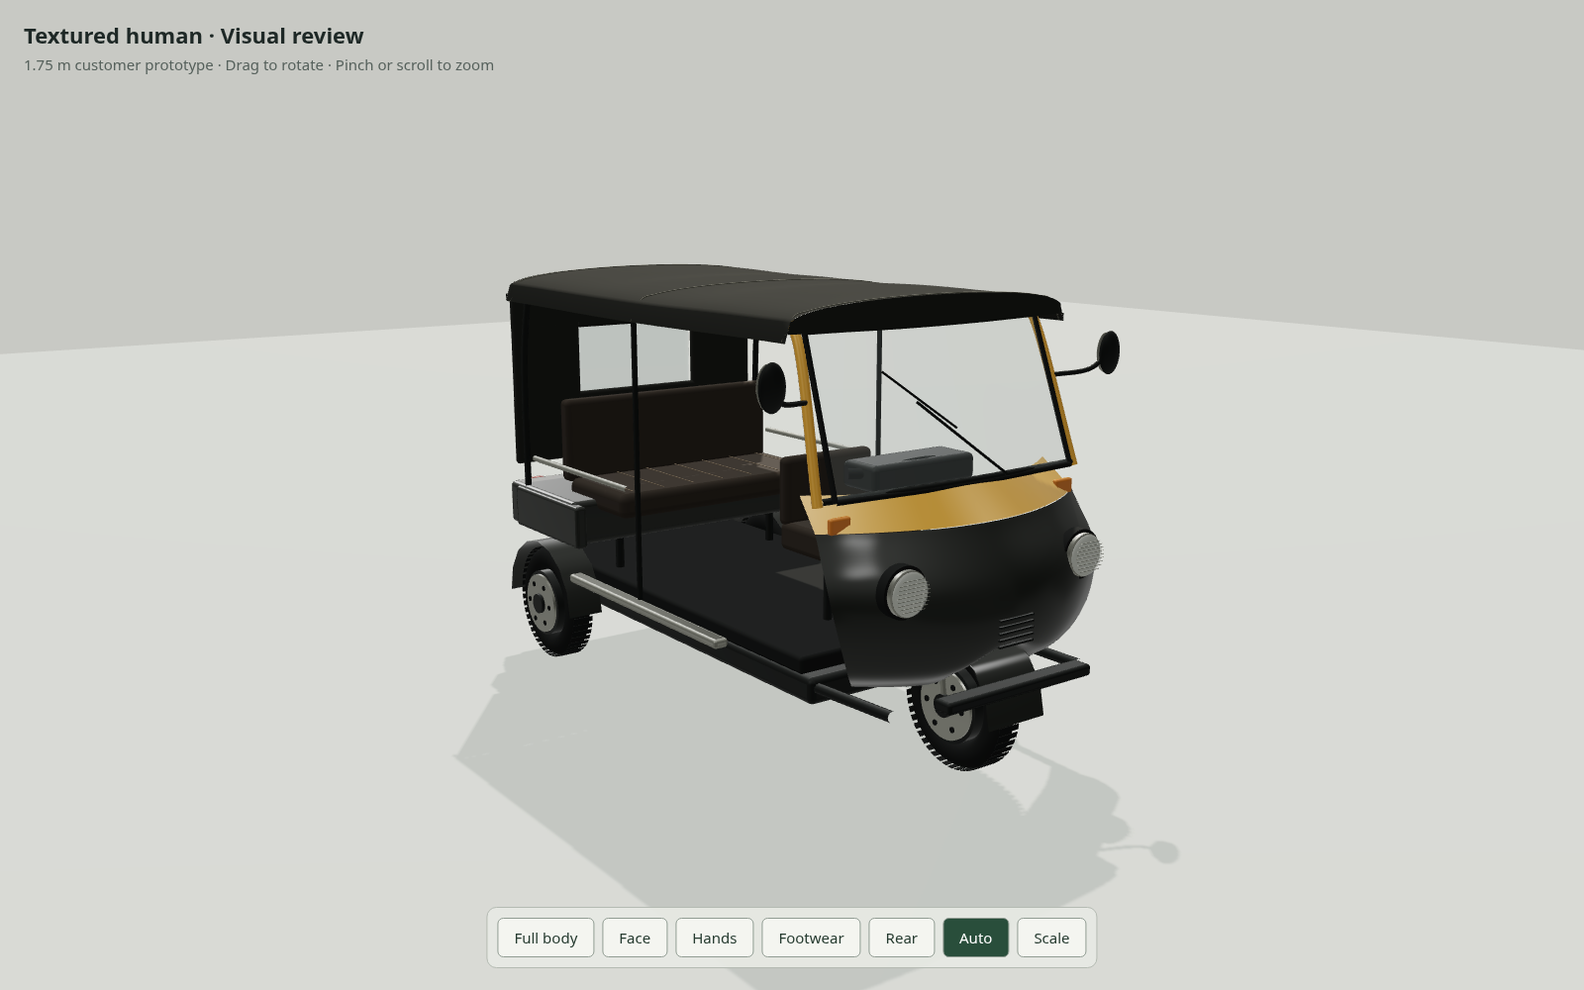
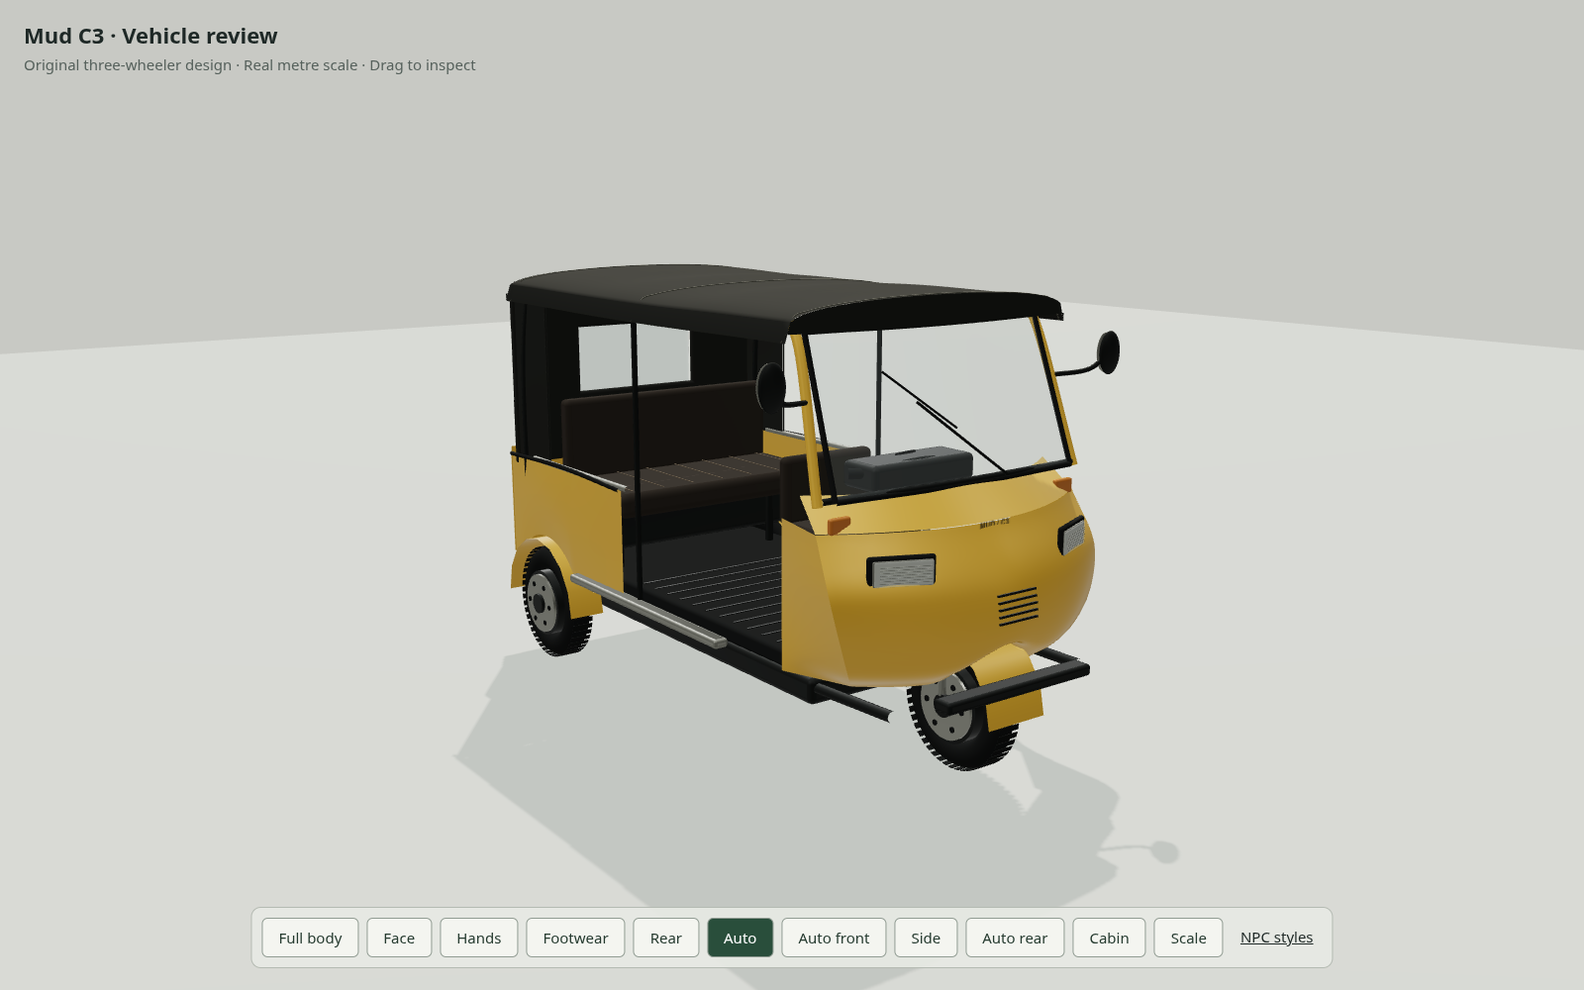
Revise original Mud C3 autorickshaw for vehicle review

diff --git a/src/prototypes/auto.js b/src/prototypes/auto.js
@@ -1,13 +1,12 @@
 import * as THREE from 'three';
 import { RoundedBoxGeometry } from 'three/addons/geometries/RoundedBoxGeometry.js';
 
-// A separate metre-scale body rebuild, not a recolour of the live world's model.
+// Original project-authored geometry and canvas badge; no manufacturer meshes, logos or photos.
 export function buildAuto(){
- const root=new THREE.Group();root.name='Formed-panel autorickshaw prototype';
- const paint=new THREE.MeshPhysicalMaterial({color:'#bc8b22',metalness:.16,roughness:.34,clearcoat:.55,clearcoatRoughness:.23});
- const metal=new THREE.MeshPhysicalMaterial({color:'#242722',metalness:.12,roughness:.44,clearcoat:.3});
+ const root=new THREE.Group();root.name='Mud C3 · original utility autorickshaw';
+ const paint=new THREE.MeshPhysicalMaterial({color:'#d5a62c',metalness:.22,roughness:.42,clearcoat:.32,clearcoatRoughness:.3});
  const frame=new THREE.MeshStandardMaterial({color:'#272a28',metalness:.5,roughness:.44}),rubber=new THREE.MeshStandardMaterial({color:'#191b1a',roughness:.97}),chrome=new THREE.MeshStandardMaterial({color:'#9b9c93',metalness:.9,roughness:.3}),cloth=new THREE.MeshStandardMaterial({color:'#242521',roughness:.98,side:THREE.DoubleSide}),seat=new THREE.MeshStandardMaterial({color:'#322c25',roughness:.87});
- cloth.userData.surface='cloth';
+ cloth.userData.surface='cloth';seat.userData.surface='cloth';paint.userData.surface='paint';
  const add=(geometry,material,p=[0,0,0],rotation=[0,0,0])=>{const o=new THREE.Mesh(geometry,material);o.position.set(...p);o.rotation.set(...rotation);o.castShadow=o.receiveShadow=true;root.add(o);return o;};
  const box=(w,h,d,r,m,p)=>add(new RoundedBoxGeometry(w,h,d,5,r),m,p);
  const tube=(points,r,m)=>add(new THREE.TubeGeometry(new THREE.CatmullRomCurve3(points.map(p=>new THREE.Vector3(...p))),Math.max(12,points.length*8),r,12,false),m);
@@ -16,16 +15,27 @@ export function buildAuto(){
  box(1.0,.10,2.02,.025,frame,[0,.32,.22]);
  for(const side of[-1,1])tube([[side*.47,.33,-.70],[side*.45,.34,-1.17]],.020,frame);
  box(1.0,.065,1.94,.015,rubber,[0,.402,.24]);
- box(1.28,.19,.60,.025,metal,[0,.66,.985]);
+ box(1.06,.19,.51,.025,frame,[0,.60,.985]);
  // Curved pressed nose: shoulders sweep back around the headlight recesses.
  const profiles=[[.39,.46,-1.17],[.49,.56,-1.27],[.73,.63,-1.27],[.945,.61,-1.16]];
  const profile=new THREE.CatmullRomCurve3(profiles.map(([y,w,z])=>new THREE.Vector3(w,y,z)));
- surface(48,64,(u,v)=>{const p=profile.getPoint(v),t=u*2-1;return[t*p.x,p.y+.18*Math.exp(-t*t*14)*(1-v)**3,p.z+.205*t*t];},metal).material.side=THREE.DoubleSide;
+ function nose(y,x=0){let low=0,high=1;for(let i=0;i<20;i++){const v=(low+high)/2;if(profile.getPoint(v).y<y)low=v;else high=v;}const v=(low+high)/2,p=profile.getPoint(v),t=x/p.x;return p.z+.205*t*t-.008*Math.exp(-t*t*35)*Math.sin(v*Math.PI);}
+ surface(48,64,(u,v)=>{const p=profile.getPoint(v),t=u*2-1;return[t*p.x,p.y+.18*Math.exp(-t*t*14)*(1-v)**3,p.z+.205*t*t-.008*Math.exp(-t*t*35)*Math.sin(v*Math.PI)];},paint).material.side=THREE.DoubleSide;
  surface(10,64,(u,v)=>{const t=u*2-1;return[t*(.61-v*.03),.947+v*.105,-1.158+v*.126+.205*t*t];},paint).material.side=THREE.DoubleSide;
  tube([[-.59,1.053,-.96],[0,1.066,-1.03],[.59,1.053,-.96]],.012,frame);
  for(const side of[-1,1]){
   // Rounded side stampings and thin door sills surround a genuinely open entrance.
-  box(.052,.18,.57,.015,metal,[side*.625,.655,.92]);
+  // Formed rear quarter shell with an actual wheel opening, not a covered wheel.
+  const quarter=surface(24,40,(u,v)=>{
+   const z=.30+u*.99,dz=z-.97,arch=Math.abs(dz)<.30?.255+Math.sqrt(.30**2-dz**2):.425;
+   const low=Math.max(.425,arch),high=.875+.018*Math.sin(u*Math.PI);
+   return[side*(.625+.014*Math.sin(v*Math.PI)*Math.sin(u*Math.PI)),low+(high-low)*v,z];
+  },paint);quarter.material.side=THREE.DoubleSide;quarter.name='Pressed rear quarter '+side;
+  surface(40,20,(u,v)=>{const p=profile.getPoint(v);return[side*(p.x*(1-u)+.555*u),p.y,(p.z+.205)*(1-u)-.69*u+.012*Math.sin(u*Math.PI)*Math.sin(v*Math.PI)];},paint).material.side=THREE.DoubleSide;
+  tube([[side*.634,.878,.30],[side*.636,.895,.79],[side*.627,.878,1.28]],.009,rubber);
+  // Rear canvas wraps the passenger cabin, while the entry stays open.
+  surface(16,18,(u,v)=>[side*(.617+.005*Math.sin(u*Math.PI)*Math.sin(v*Math.PI)),.89+v*.68,.91+u*.31],cloth);
+  tube([[side*.623,.90,.91],[side*.623,1.25,.91],[side*.623,1.58,.91]],.003,cloth);
   box(.06,.035,1.12,.012,chrome,[side*.636,.434,.13]);
   tube([[side*.606,1.037,-.96],[side*.558,1.555,-.79],[side*.555,1.63,-.74]],.018,paint);
   tube([[side*.614,.66,1.15],[side*.618,1.34,1.13],[side*.610,1.61,1.09]],.014,frame);
@@ -36,12 +46,13 @@ export function buildAuto(){
   const mirrorGlass=add(new THREE.SphereGeometry(1,40,28),chrome,[side*.785,1.448,-.934]);mirrorGlass.scale.set(.046,.075,.006);
   box(.087,.056,.025,.009,new THREE.MeshStandardMaterial({color:'#a86718',roughness:.25}),[side*.53,.97,-.979]);
   box(.087,.128,.027,.012,new THREE.MeshPhysicalMaterial({color:'#8d2820',roughness:.28,clearcoat:1}),[side*.51,.69,1.292]);
-  // Real reflector, recessed lamp glass and fine fluting replace solid white discs.
-  const x=side*.418,z=-1.247+.205*(x/.63)**2;
-  cylinder(.092,.042,rubber,[x,.769,z-.012],[Math.PI/2,0,0]);
-  cylinder(.080,.024,chrome,[x,.769,z-.038],[Math.PI/2,0,0]);
-  const lens=add(new THREE.SphereGeometry(1,48,32),new THREE.MeshPhysicalMaterial({color:'#ced4cc',roughness:.12,metalness:.08,clearcoat:1,transparent:true,opacity:.47}),[x,.769,z-.057]);lens.scale.set(.076,.076,.017);
-  for(let y=-.052;y<.056;y+=.013){const half=Math.sqrt(.072**2-y*y);tube([[x-half,.769+y,z-.074],[x+half,.769+y,z-.074]],.0011,chrome);}
+  // Original twin horizontal lamp assemblies, fitted to the compound nose curve.
+  const x=side*.403,z=nose(.826,x),yaw=-side*.41;
+  const housing=box(.238,.119,.022,.032,rubber,[x,.826,z-.004]);housing.rotation.y=yaw;housing.name='C3 headlight housing '+side;
+  const reflector=box(.211,.091,.011,.025,chrome,[x,.826,z-.014]);reflector.rotation.y=yaw;
+  const lens=box(.205,.085,.010,.024,new THREE.MeshPhysicalMaterial({color:'#d7dfd5',roughness:.15,metalness:.05,clearcoat:.7,transparent:true,opacity:.43,depthWrite:false}),[x,.826,z-.021]);lens.rotation.y=yaw;
+  for(let y=-.028;y<=.029;y+=.009)tube([[x-.083,.826+y,z-.030-side*.035],[x+.083,.826+y,z-.030+side*.035]],.0008,chrome);
+
  }
  // Single curved windshield, thin rubber seal, and a blade that follows its rake.
  const glazing=new THREE.MeshPhysicalMaterial({color:'#aebcbb',roughness:.10,metalness:0,clearcoat:1,transparent:true,opacity:.18,depthWrite:false,side:THREE.DoubleSide});
@@ -56,6 +67,9 @@ export function buildAuto(){
  surface(48,64,roofPoint,cloth);
  for(const end of[0,1])surface(8,64,(u,v)=>{const roof=roofPoint(u,end),t=u*2-1;return[roof[0],(1-v)*(1.585+.012*t*t)+v*roof[1],roof[2]+(end? .001:-.001)];},cloth);
  for(const v of[.01,.48,.98])tube(Array.from({length:25},(_,i)=>{const p=roofPoint(i/24,v);p[1]+=.001;return p;}),.002,new THREE.MeshStandardMaterial({color:'#515148',roughness:1}));
+ // Curved rear engine cover closes the body below the canvas cabin.
+ surface(18,40,(u,v)=>{const t=u*2-1;return[t*.628,.425+v*.485,1.278+.013*(1-t*t)*Math.sin(v*Math.PI)];},paint).material.side=THREE.DoubleSide;
+ for(const side of[-1,1])tube([[side*.45,.56,1.294],[side*.45,.72,1.294]],.012,rubber);
  // Rear curtains are built around their opening, not layered over opaque panels.
  box(1.26,.30,.033,.016,cloth,[0,.988,1.225]);box(1.26,.18,.033,.016,cloth,[0,1.52,1.225]);
  for(const side of[-1,1])box(.325,.38,.033,.012,cloth,[side*.465,1.28,1.225]);
@@ -77,9 +91,22 @@ export function buildAuto(){
 for(const side of[-1,1])tube([[side*.08,.26,-1.025],[side*.08,.58,-.98]],.012,chrome);
  wheel(0,-1.025);wheel(-.587,.97);wheel(.587,.97);
  const arch=(x,z,width,r,material)=>surface(48,8,(u,v)=>{const a=u*Math.PI;return[x+(v-.5)*width,.255+r*Math.sin(a),z+r*Math.cos(a)];},material);
- arch(0,-1.025,.265,.279,metal).material.side=THREE.DoubleSide;
- for(const side of[-1,1])arch(side*.592,.97,.155,.281,metal);
+ arch(0,-1.025,.265,.279,paint).material.side=THREE.DoubleSide;
+ for(const side of[-1,1])arch(side*.592,.97,.155,.292,paint);
  box(.68,.043,.08,.013,frame,[0,.386,-1.29]);box(1.16,.072,.07,.018,frame,[0,.385,1.27]);
- for(let y=.54;y<.65;y+=.023)box(.16,.007,.012,.001,frame,[0,y,-1.287]);
- root.userData={assetType:'autorickshaw-prototype',reviewOnly:true,dimensions:{length:2.635,width:1.30,height:1.70},wheelCount:3};return root;
+ // Open grille blades and a small original game badge, with no manufacturer marks.
+ for(let y=.625;y<.73;y+=.024)box(.18,.008,.009,.002,frame,[0,y,nose(y)-.005]);
+ for(let z=-.63;z<.43;z+=.095)box(.93,.003,.011,.001,frame,[0,.438,z]);
+ for(const side of[-1,1]){
+  cylinder(.016,.21,chrome,[side*.08,.395,-1.012]);
+  tube(Array.from({length:65},(_,i)=>{const t=i/64,a=t*Math.PI*12;return[side*.08+.024*Math.cos(a),.37+t*.14,-1.012+.024*Math.sin(a)];}),.0035,frame);
+ }
+ const dial=cylinder(.039,.006,rubber,[0,1.112,-.696]);dial.rotation.x=.35;
+ if(typeof document!=='undefined'){
+  const c=document.createElement('canvas');c.width=512;c.height=128;const ctx=c.getContext('2d');ctx.clearRect(0,0,512,128);ctx.fillStyle='#534426';ctx.font='600 62px sans-serif';ctx.textAlign='center';ctx.fillText('MUD / C3',256,88);
+  const texture=new THREE.CanvasTexture(c);texture.colorSpace=THREE.SRGBColorSpace;
+  const badge=add(new THREE.PlaneGeometry(.26,.065),new THREE.MeshStandardMaterial({map:texture,transparent:true,depthWrite:false,roughness:.8}),[0,.938,nose(.938)-.003],[0,Math.PI,0]);badge.name='Original Mud C3 badge';
+ }
+
+ root.userData={assetType:'autorickshaw-prototype',reviewOnly:true,design:'Original Mud C3; generic three-wheeler construction, no manufacturer assets or badges',dimensions:{length:2.635,width:1.30,height:1.70},wheelCount:3};return root;
 }

diff --git a/src/prototypes/review.js b/src/prototypes/review.js
@@ -13,10 +13,11 @@ const camera=new THREE.PerspectiveCamera(38,innerWidth/innerHeight,.02,80),contr
 const person=await buildPerson().catch(error=>{const label=document.querySelector('#loading');label.textContent='Human asset failed to load. Please reload to retry.';label.classList.add('error');throw error}),auto=buildAuto();
 function grain(kind){const c=document.createElement('canvas');c.width=c.height=256;const ctx=c.getContext('2d');ctx.fillStyle='#b9b9b9';ctx.fillRect(0,0,256,256);for(let i=0;i<7000;i++){const x=i*67%251,y=i*139%253;ctx.fillStyle=i%2?'#ffffff20':'#00000018';ctx.fillRect(x,y,1,kind==='cloth'?3:1);}if(kind==='cloth'){ctx.strokeStyle='#60606035';ctx.lineWidth=.5;for(let i=0;i<256;i+=4){ctx.beginPath();ctx.moveTo(i,0);ctx.lineTo(i,256);ctx.moveTo(0,i);ctx.lineTo(256,i);ctx.stroke();}}const t=new THREE.CanvasTexture(c);t.colorSpace=THREE.NoColorSpace;t.wrapS=t.wrapT=THREE.RepeatWrapping;t.anisotropy=renderer.capabilities.getMaxAnisotropy();return t;}
 const clothGrain=grain('cloth'),skinGrain=grain('skin');
-for(const model of[person,auto])model.traverse(o=>{if(!o.isMesh)return;for(const m of Array.isArray(o.material)?o.material:[o.material])if(m.userData.surface){m.bumpMap=m.userData.surface==='cloth'?clothGrain:skinGrain;m.bumpScale=m.userData.surface==='cloth'?.00025:.00012;m.needsUpdate=true;}});
+for(const model of[person,auto])model.traverse(o=>{if(!o.isMesh)return;for(const m of Array.isArray(o.material)?o.material:[o.material])if(m.userData.surface){m.bumpMap=m.userData.surface==='cloth'?clothGrain:skinGrain;m.bumpScale=m.userData.surface==='cloth'?.0006:.00012;m.needsUpdate=true;}});
 scene.add(person,auto);document.querySelector('#loading').remove();
 function setView(view){const humanViews=['person','face','front','back','hands','feet'];person.visible=humanViews.includes(view)||view==='pair';auto.visible=!humanViews.includes(view);person.position.set(view==='pair'?-1.2:0,0,view==='pair'?.35:0);auto.position.set(view==='pair'?.85:0,0,0);person.rotation.y=0;auto.rotation.y=0;
- const views={person:[[1.65,1.45,3.2],[0,.91,0]],face:[[.28,1.67,.83],[0,1.61,.11]],front:[[0,1.35,3.7],[0,.91,0]],back:[[-1.9,1.4,-3.25],[0,.91,0]],hands:[[.68,1.06,.64],[.24,.83,.045]],feet:[[.48,.36,.67],[0,.09,.06]],auto:[[3.4,2.1,-4.6],[0,.83,0]],side:[[4.6,1.5,0],[0,.83,0]],pair:[[4,2.7,-6.2],[0,.85,0]]};const [pos,target]=views[view]||views.person;controls.enableDamping=false;camera.position.set(...pos);controls.target.set(...target);if(innerHeight<650&&['person','front','back'].includes(view)){controls.target.y=1;camera.position.sub(controls.target).multiplyScalar(1.18).add(controls.target);}controls.update();controls.enableDamping=true;renderer.render(scene,camera);document.querySelectorAll('[data-view]').forEach(b=>b.classList.toggle('active',b.dataset.view===view));}
+ const vehicleView=['auto','side','auto-front','auto-rear','cabin'].includes(view);document.querySelector('header h1').textContent=vehicleView?'Mud C3 · Vehicle review':view==='pair'?'Human / vehicle scale review':'Textured human · Visual review';document.querySelector('header p').textContent=vehicleView?'Original three-wheeler design · Real metre scale · Drag to inspect':view==='pair'?'1.75 m person beside the prototype · Review before world replacement':'1.75 m customer prototype · Drag to rotate · Pinch or scroll to zoom';
+ const views={person:[[1.65,1.45,3.2],[0,.91,0]],face:[[.28,1.67,.83],[0,1.61,.11]],front:[[0,1.35,3.7],[0,.91,0]],back:[[-1.9,1.4,-3.25],[0,.91,0]],hands:[[.68,1.06,.64],[.24,.83,.045]],feet:[[.48,.36,.67],[0,.09,.06]],auto:[[3.4,2.1,-4.6],[0,.83,0]],side:[[4.6,1.5,0],[0,.83,0]],'auto-front':[[0,1.35,-4.3],[0,.85,-.25]],'auto-rear':[[2.8,1.8,4.0],[0,.85,.25]],cabin:[[1.85,1.29,.01],[0,.95,.38]],pair:[[4,2.7,-6.2],[0,.85,0]]};const [pos,target]=views[view]||views.person;controls.enableDamping=false;camera.position.set(...pos);controls.target.set(...target);if(innerHeight<650&&['person','front','back'].includes(view)){controls.target.y=1;camera.position.sub(controls.target).multiplyScalar(1.18).add(controls.target);}controls.update();controls.enableDamping=true;renderer.render(scene,camera);document.querySelectorAll('[data-view]').forEach(b=>b.classList.toggle('active',b.dataset.view===view));}
 document.querySelectorAll('[data-view]').forEach(b=>b.onclick=()=>setView(b.dataset.view));setView(new URLSearchParams(location.search).get('view')||'person');
 addEventListener('resize',()=>{camera.aspect=innerWidth/innerHeight;camera.updateProjectionMatrix();renderer.setSize(innerWidth,innerHeight);renderer.render(scene,camera)});renderer.setAnimationLoop(()=>{if(controls.update())renderer.render(scene,camera)});
 window.__ASSET_REVIEW__={scene,camera,renderer,person,auto,setView,render:()=>renderer.render(scene,camera)};

diff --git a/review.html b/review.html
@@ -3,4 +3,4 @@
 *{box-sizing:border-box}body{margin:0;background:#c8c9c4;color:#1e2826;font:15px system-ui}canvas{width:100vw;height:100vh;display:block}header{position:fixed;top:20px;left:24px;pointer-events:none}h1{font-size:22px;margin:0 0 5px}header p{margin:0;color:#56615c}nav{position:fixed;bottom:22px;left:50%;transform:translateX(-50%);display:flex;gap:8px;background:#e7e9e4eb;border:1px solid #b4bab2;padding:10px;border-radius:10px}button{font:inherit;padding:9px 16px;border:1px solid #919c93;border-radius:6px;background:#f4f5f0;color:#263b30;cursor:pointer;white-space:nowrap}button.active{background:#294e3b;color:white}#loading{position:fixed;top:50%;width:100%;text-align:center}a{color:inherit}@media(max-width:600px){header{left:14px;top:12px}h1{font-size:17px}nav{gap:4px;padding:7px;bottom:12px}button{padding:8px 10px;font-size:12px}}
 nav{max-width:95vw;justify-content:center;flex-wrap:wrap;width:max-content}canvas,button{-webkit-user-select:none;user-select:none;-webkit-touch-callout:none;touch-action:none}#loading.error{background:#fff0e9;color:#822d1b;padding:16px}@media(max-height:650px){nav{bottom:12px;padding:7px;gap:5px}button{padding:7px 12px;font-size:12px}header{top:12px}h1{font-size:18px}header p{font-size:12px}}
 button:disabled{cursor:default;opacity:.5}#loading.error{top:50%;left:50%;transform:translate(-50%,-50%);width:min(680px,92vw);max-height:70vh;overflow:auto;text-align:left;border:1px solid #c49f90;border-radius:10px;box-shadow:0 8px 32px #0002}#loading.error p{line-height:1.5}#loading.error a{display:inline-block;margin:4px 12px 0 0;text-decoration:underline}
-</style></head><body><canvas id="review"></canvas><header><h1>Textured human · Visual review</h1><p>1.75 m customer prototype · Drag to rotate · Pinch or scroll to zoom</p></header><nav><button data-view="person" class="active">Full body</button><button data-view="face">Face</button><button data-view="hands">Hands</button><button data-view="feet">Footwear</button><button data-view="back">Rear</button><button data-view="auto">Auto</button><button data-view="pair">Scale</button><a href="./crowd.html" style="padding:9px">NPC styles</a></nav><p id="loading">Loading textured human…</p><script type="module" src="./src/prototypes/review.js"></script></body></html>
+</style></head><body><canvas id="review"></canvas><header><h1>Textured human · Visual review</h1><p>1.75 m customer prototype · Drag to rotate · Pinch or scroll to zoom</p></header><nav><button data-view="person" class="active">Full body</button><button data-view="face">Face</button><button data-view="hands">Hands</button><button data-view="feet">Footwear</button><button data-view="back">Rear</button><button data-view="auto">Auto</button><button data-view="auto-front">Auto front</button><button data-view="side">Side</button><button data-view="auto-rear">Auto rear</button><button data-view="cabin">Cabin</button><button data-view="pair">Scale</button><a href="./crowd.html" style="padding:9px">NPC styles</a></nav><p id="loading">Loading textured human…</p><script type="module" src="./src/prototypes/review.js"></script></body></html>

diff --git a/docs/prototype-review.md b/docs/prototype-review.md
@@ -4,7 +4,7 @@ Open `review.html` for the isolated Three.js review stage. Drag rotates the came
 
 The customer now loads `public/review/customer.glb`: a 1.75 m textured human with seven separate meshes (exposed anatomical body, collared cotton shirt, jeans/belt, leather shoes/socks, strand-card hair, eyebrows and anatomical eyes). The clothing has authored construction, UVs, seams, cuffs, pockets, closures, folds and normal maps; it is no longer recoloured body topology. Skin uses an authored UV atlas. The adult male body retains the anatomical eyelids, ears, hands and fingers. Arms are lowered and feet slightly staggered and turned outward. All selected source assets are explicitly CC0; sources and modifications are recorded in `public/review/LICENSE-human.txt`.
 
-Rebuild with Blender 4.0: download the official system-assets CC0 pack linked in the license file, then run `blender --background --python scripts/build-human.py -- /tmp/opencode/makehuman-system.zip`. The script retrieves the version-pinned base and morph, fits the source garment proxies, preserves source UVs, removes covered body faces, subdivides, poses and exports the GLB. This is a static review pose; rigging and animation remain Phase 3 work following appearance approval.
+Rebuild with Blender 4.0: download the official system-assets CC0 pack linked in the license file, then run `blender --background --python scripts/build-human.py -- /tmp/opencode/makehuman-system.zip`. The script retrieves the version-pinned base and morph, fits the source garment proxies, preserves source UVs, removes covered body faces, subdivides, poses and exports the GLB. This is a static review pose. The user-approved human now also supplies rigged in-game wardrobe variants in `crowd.html`; the high-detail inspection mesh remains separate.
 
 `node scripts/check-prototype-browser.mjs` captures full body, face, front, rear, hands, footwear, auto, scale comparison and mobile landscape renders in Chromium. Set `CAPTURE_PUBLIC=1` to save the actual renders in `public/review/renders/` for publication. Technical checks verify loading, textures, metre scale and console/network errors. They do not establish visual acceptance or an exact match to `public/reference.png`.
 
@@ -14,12 +14,18 @@ Visual iteration corrected the opaque cornea (which initially hid the irises), o
 
 Three.js r180 requires WebGL2. A browser reporting `GL_VENDOR = Disabled` and `GL_RENDERER = Disabled` is failing before the GLB loads. The review now catches startup failures, shows recovery instructions and links to explicitly labelled saved Chromium renders; it does not represent those PNGs as a live model. For Chrome/Edge, enable graphics acceleration under Settings → System, fully restart, and inspect `chrome://gpu` / `edge://gpu` if WebGL2 remains unavailable. The site cannot enable a browser-disabled graphics API. `node scripts/check-review-startup.mjs` reproduces this with `--disable-webgl`, verifies no uncaught error or model request, and checks the saved-render links.
 
-The autorickshaw is independently modeled in metres with curved pressed front panels, narrow window seals and roof supports, recessed reflector/lens headlights, a curved canopy with sewn seams, open passenger entrances, bench and driver seats, formed mudguards and three detailed wheels. It represents a Bajaj RE-inspired Kerala auto, not an exact licensed replica.
+The autorickshaw review now shows the original Mud C3 design. It uses a generic three-wheeler layout with metre-scale seating, wheels, suspension and canopy. Its compound-curved front shell, horizontal lamp assemblies, rear quarter panels with wheel openings, engine cover and game badge are project-authored. No manufacturer CAD, downloaded vehicle mesh, real badge, livery or vehicle photographs are bundled. The materials use the existing environment lighting and original canvas grain/badge textures. This is a custom mesh prototype, not a scanned or licensed replica of a commercial vehicle.
 
-These are actual 3D meshes rendered in WebGL, not reference images placed in the scene. The `Render person and autorickshaw prototypes` GitHub workflow checks dimensions and captures Chromium renders. The main game continues to use the previously deployed assets pending visual review of these two replacements.
+These are actual 3D meshes rendered in WebGL, not reference images placed in the scene. The `Render person and autorickshaw prototypes` GitHub workflow checks dimensions and captures Chromium renders. The main game uses the approved human wardrobe variants. Its vehicles retain the previous models pending review of the Mud C3 prototype.
 
 ## October 2 review continuation
 
 The unfinished textured draft was present in the checkout and preserved. The hair now uses the CC0 `short02` source with its authored strand layering intact; the previous nearest-scalp compression was removed because it folded cards into one another and exposed bright gaps. Eye whites receive a subtle warm tint. The static review stage renders on camera movement and resize rather than redrawing an unchanged model continuously.
 
-This remains an unapproved representative customer, separate from world NPCs. The supplied reference establishes the world composition and art direction, but does not show enough facial detail to validate a close-up likeness. No claim of reference equivalence is made.
+The customer was subsequently approved by the user; its rigged wardrobe variants are now integrated into world NPCs. The supplied reference establishes the world composition and art direction, but does not show enough facial detail to validate a close-up likeness. No claim of reference equivalence is made.
+
+## October 2 vehicle design review
+
+The first Mud C3 render exposed front quarter panels that did not meet the nose and oversized projecting lamps. The quarter surfaces now share the nose profile exactly; lamp depth and angle follow the curved front. The review includes front, side, rear, cabin and person/vehicle comparison views. The main game's vehicle fleet remains unchanged until appearance approval, following the requested prototype-first workflow.
+
+Verified with `node scripts/check-prototypes.mjs`, production Vite build and hardware Chromium prototype checks. Captures are real Three.js renders in `artifacts/prototypes/`. The recorded body is approximately 2.64 m long and 1.69 m high; width including mirrors is 1.68 m. These checks establish loading, geometry and framing, not visual acceptance or legal clearance.
